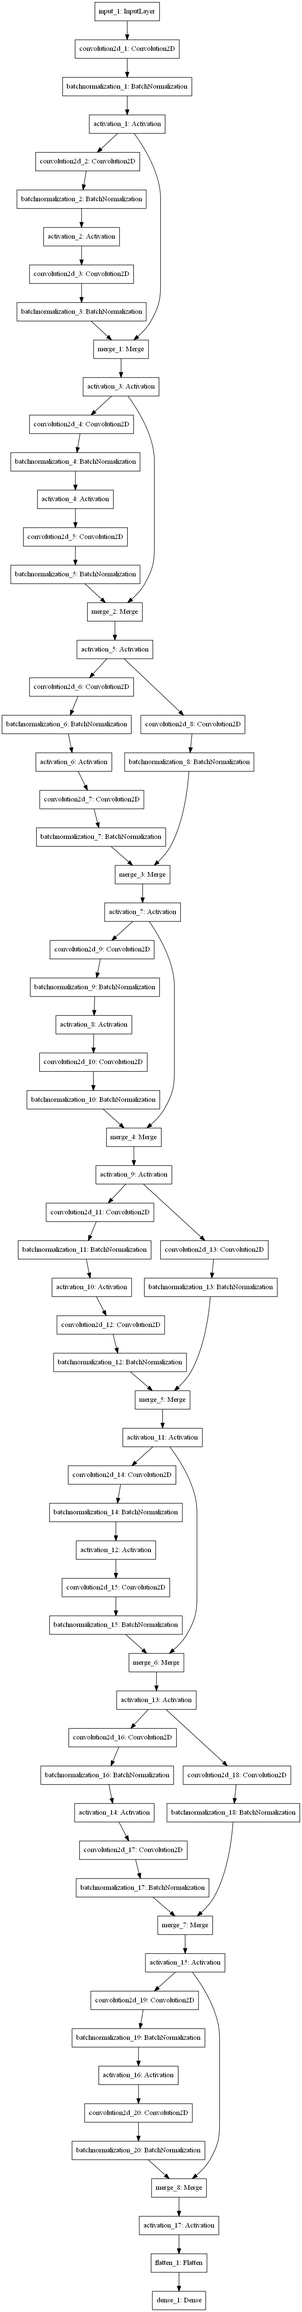
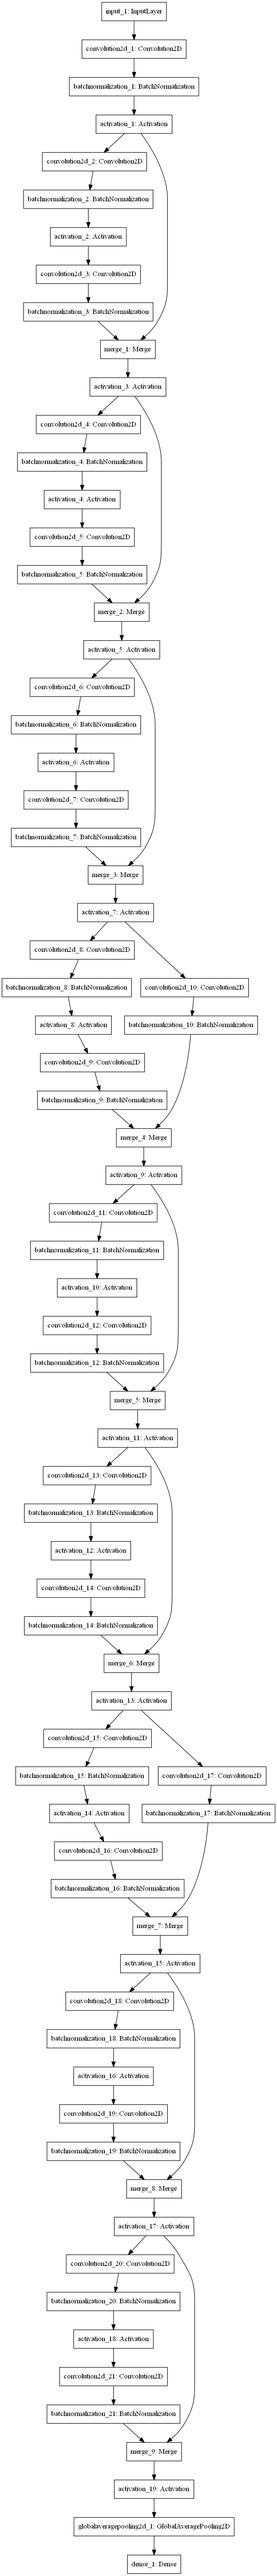
add class for cifar-10

diff --git a/resnet.py b/resnet.py
@@ -27,6 +27,8 @@ from keras.layers.convolutional import (
     AveragePooling2D
 )
 
+from keras.layers.pooling import GlobalAveragePooling2D
+
 from keras.optimizers import SGD
 from keras.regularizers import l2, activity_l2
 from keras.callbacks import TensorBoard
@@ -41,18 +43,22 @@ from keras.utils.visualize_util import plot
 
 class ResNet(object):
 	
-	def __init__(self, shape, classes, blocks=[2,2,2,2]):
+	def __init__(self, shape, classes, blocks, CIFAR10=False):
 
-
+		self.CIFAR10 = CIFAR10
 		self.axis = 3
 
 		inputs = Input(shape=shape)
 
-		#x = Conv2D(64, 7,7, border_mode='same', subsample=(2,2), init='he_normal')(inputs)
-		x = Conv2D(64, 3,3, border_mode='same', subsample=(1,1), init='he_normal', bias=False, W_regularizer=l2(1e-4))(inputs)
+		if not CIFAR10:
+			x = Conv2D(64, 7,7, border_mode='same', subsample=(2,2), init='he_normal', bias=False, W_regularizer=l2(1e-4))(inputs)
+		else:
+			x = Conv2D(16, 3,3, border_mode='same', subsample=(1,1), init='he_normal', bias=False, W_regularizer=l2(1e-4))(inputs)
 		x = BatchNormalization(axis=self.axis)(x)
 		x = Activation('relu')(x)
-		#x = MaxPooling2D((3,3), border_mode='same', strides=(2,2))(x)
+		
+		if not CIFAR10:
+			x = MaxPooling2D((3,3), border_mode='same', strides=(2,2))(x)
 
 		channel_size = int(x.shape[self.axis]) # x.shape[index] : Dimension type
 
@@ -62,7 +68,8 @@ class ResNet(object):
 
 			channel_size *= 2
 
-		x = Flatten()(x)
+		x = GlobalAveragePooling2D()(x)
+
 		predictions = Dense(classes, activation='softmax')(x)
 		
 		self.model = Model(inputs, predictions)
@@ -131,16 +138,37 @@ class ResNet(object):
 		plt.ylabel('acc')
 		plt.show()
 
+
 class ResNet18(ResNet):
 
 	def __init__(self, shape, classes):
 		super().__init__(shape, classes, [2,2,2,2])
 
+
 class ResNet34(ResNet):
 
 	def __init__(self, shape, classes):
 		super().__init__(shape, classes, [3,4,6,3])
-	
+
+
+class ResNet_CIFAR10(ResNet):
+
+	def __init__(self, shape, classes, n):
+		super().__init__(shape, classes, [n,n,n], CIFAR10=True)
+
+
+class ResNet_CIFAR10_20(ResNet_CIFAR10):
+
+	def __init__(self, shape, classes):
+		super().__init__(shape, classes, 3)
+
+
+class ResNet_CIFAR10_32(ResNet_CIFAR10):
+
+	def __init__(self, shape, classes):
+		super().__init__(shape, classes, 5)
+
+
 
 if __name__ == '__main__':
 	shape, classes = (32, 32, 3), 10
@@ -167,7 +195,7 @@ if __name__ == '__main__':
 	Y_test = np_utils.to_categorical(y_test, classes)
 
 
-	model = ResNet18( shape, classes)
+	model = ResNet_CIFAR10_20( shape, classes)
 
 	model.learn( X_train, Y_train, X_test, Y_test)
 
